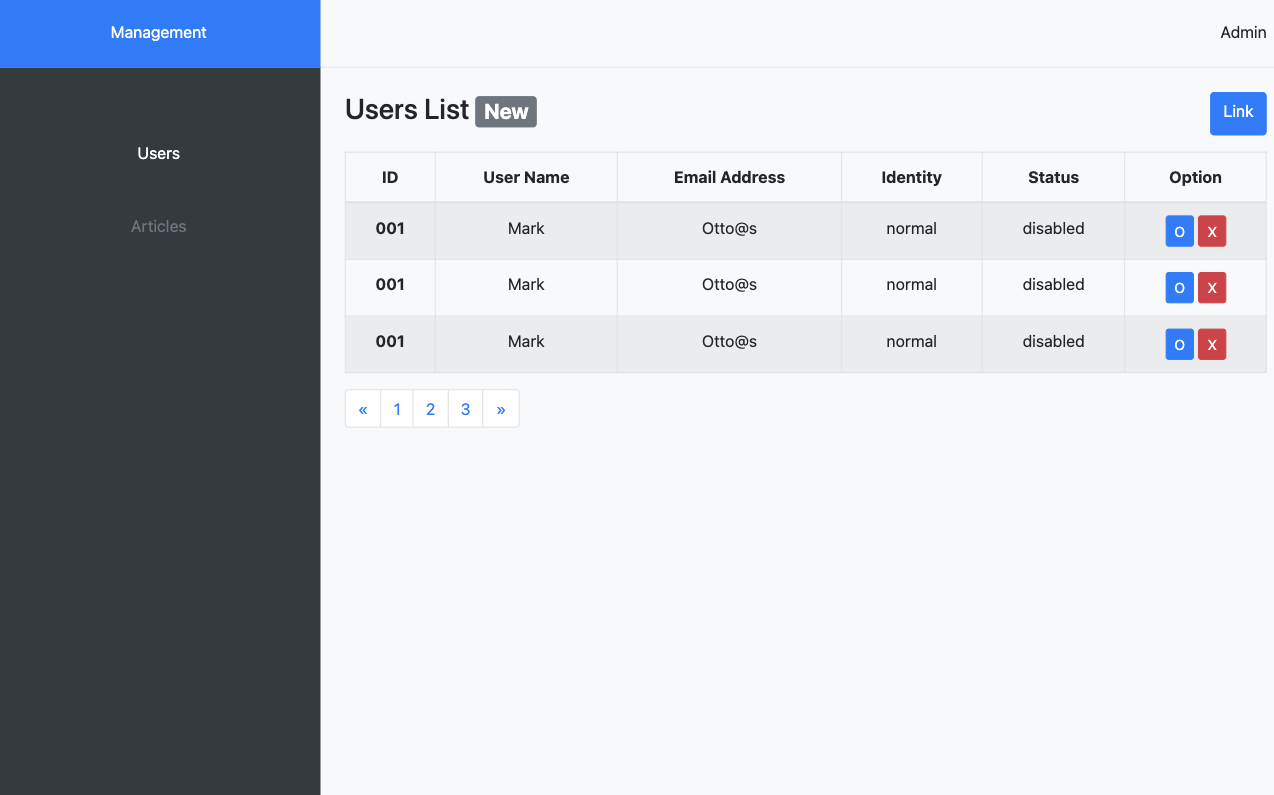
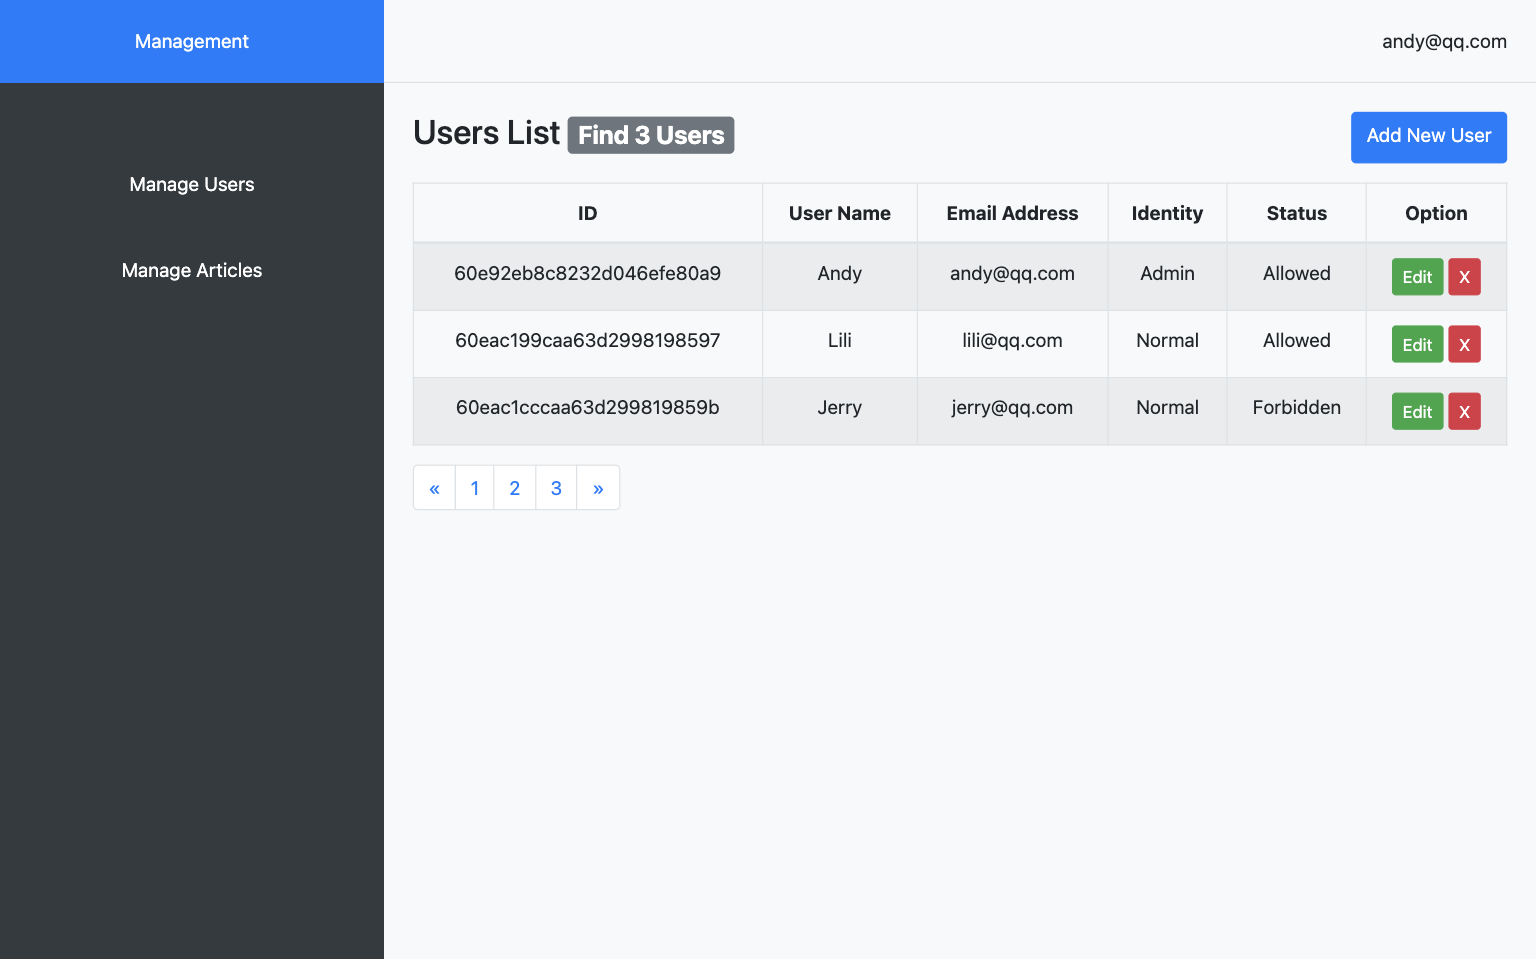
render usersList page according to MongoDB

diff --git a/route/admin/userPageRender.js b/route/admin/userPageRender.js
@@ -1,5 +1,12 @@
+// 用户集合
+const { User } = require('../../model/user')
 // render user list page
 // /admin/users
-module.exports = (req, res) => {
-    res.render('admin/users')
+module.exports = async (req, res) => {
+    // get all list from MongoDB
+    let users = await User.find({})
+    // render list in template
+    res.render('admin/users', {
+        users: users
+    })
 }
